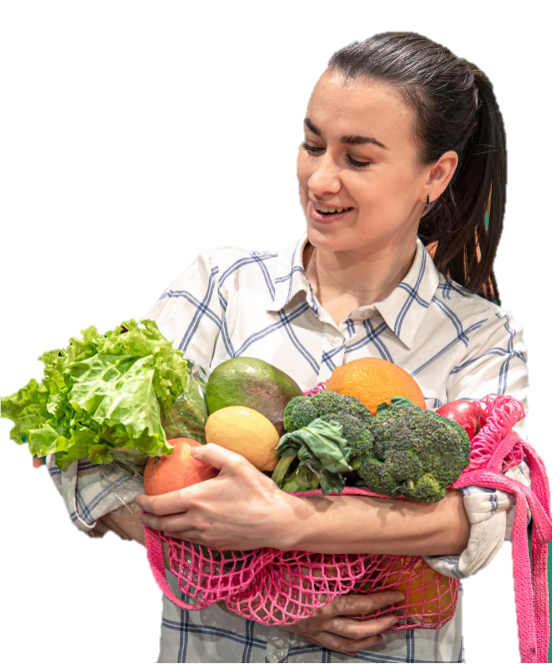
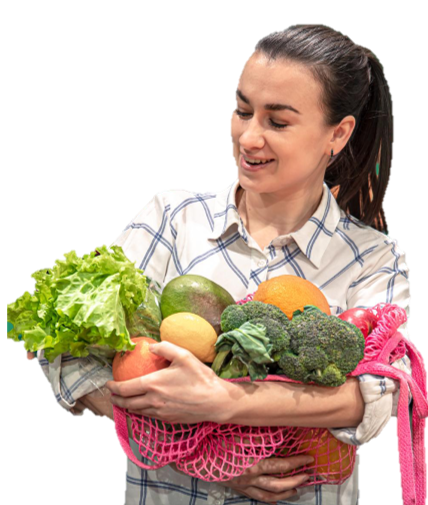
1. Acomodo de ofertas flash no permitido para membresias basicas 2. Ofertas flash con limite de cantidad total por membresia

diff --git a/Abastecete/Controllers/OfertasFlashController.cs b/Abastecete/Controllers/OfertasFlashController.cs
@@ -31,11 +31,22 @@ namespace Abastecete.Controllers
             {
                 int duracionOferta = _manejadorOfertas.ObtenerDuracionOferta(idLocal.Value);
                 int cantidadOfertas = _manejadorOfertas.CantidadOfertas(idLocal.Value);
+                int totalCreadas = _manejadorOfertas.TotalOfertasCreadasVigentesPorMembresia(idLocal.Value);
+                int limiteTotal = (duracionOferta == 12) ? 10 : 20;
 
                 ViewBag.DuracionOferta = duracionOferta;
                 ViewBag.CantidadOfertas = cantidadOfertas;
 
-                bool puedeCrearOferta = (duracionOferta == 12 && cantidadOfertas <= 3) || (duracionOferta == 24 && cantidadOfertas <= 5);
+                bool excedeSimultaneas = (duracionOferta == 12 && cantidadOfertas > 3) ||
+                         (duracionOferta == 24 && cantidadOfertas > 5);
+
+                bool excedeTotal = totalCreadas >= limiteTotal;
+
+                bool puedeCrearOferta = !excedeSimultaneas && !excedeTotal;
+
+                ViewBag.DuracionOferta = duracionOferta;
+                ViewBag.ExcedeSimultaneas = excedeSimultaneas;
+                ViewBag.ExcedeTotal = excedeTotal;
                 ViewBag.PuedeCrearOferta = puedeCrearOferta;
 
                 if (puedeCrearOferta)
@@ -64,7 +75,6 @@ namespace Abastecete.Controllers
 
             return View();
         }
-
 
         public IActionResult Gestionar()
         {

diff --git a/Abastecete/Controllers/LoginController.cs b/Abastecete/Controllers/LoginController.cs
@@ -52,11 +52,20 @@ namespace ConnectionProject.Controllers
                 int idRol = Convert.ToInt32(data.Rows[0]["FK_ID_ROL"]);
                 int idPersona = Convert.ToInt32(data.Rows[0]["FK_ID_PERSONA"]);
                 int idUsuario = Convert.ToInt32(data.Rows[0]["PK_ID_USUARIO"]);
-                int idTipoMembresia = Convert.ToInt32(data.Rows[0]["FK_ID_TIPOMEMBRESIA"]); // ✅ Ahora sí existe la columna
+
+                // Obtener correctamente la membresía mediante consultar_usuario
+                var detallesUsuario = _manejadorUsuario.ConsultarUsuarios(idUsuario).FirstOrDefault();
+                if (detallesUsuario != null)
+                {
+                    HttpContext.Session.SetString("membresia", detallesUsuario.Membresia);
+                }
+                else
+                {
+                    HttpContext.Session.SetString("membresia", "0");
+                }
 
                 HttpContext.Session.SetInt32("PersonaId", idPersona);
                 HttpContext.Session.SetInt32("idUsuario", idUsuario);
-                HttpContext.Session.SetString("membresia", idTipoMembresia.ToString());
 
                 if (HttpContext.Session.GetString("LastLoginError") == usuario.Correo)
                 {

diff --git a/BusinessLogic/ManejadorOfertasFlash.cs b/BusinessLogic/ManejadorOfertasFlash.cs
@@ -223,6 +223,29 @@ namespace BusinessLogic
             return 0; // Si hay error o no hay ofertas, retorna 0
         }
 
+        public int TotalOfertasCreadasVigentesPorMembresia(int idLocal)
+        {
+            try
+            {
+                List<Parametro> parametros = new List<Parametro>
+                {
+                    new Parametro("p_id_local", idLocal)
+                };
+
+                DataTable datos = conexion.EjecutarConsulta("total_ofertas_flash_local", parametros);
+
+                if (datos.Rows.Count > 0)
+                {
+                    return Convert.ToInt32(datos.Rows[0][0]);
+                }
+            }
+            catch (Exception ex)
+            {
+                Console.WriteLine($"Error en TotalOfertasCreadasVigentesPorMembresia: {ex.Message}");
+            }
+
+            return 0;
+        }
 
     }
 }

diff --git a/BusinessLogic/ManejadorUsuario.cs b/BusinessLogic/ManejadorUsuario.cs
@@ -103,7 +103,7 @@ namespace BusinessLogic
                     },
                     Correo = row["NOMBRE_USUARIO"].ToString(),
                     CodigoReferido = 0,
-                    Membresia = row["PK_ID_TIPO_MEMBRESIA"].ToString(),
+                    Membresia = row["FK_ID_TIPOMEMBRESIA"].ToString(),
                 });
             }
             return usuarios;
